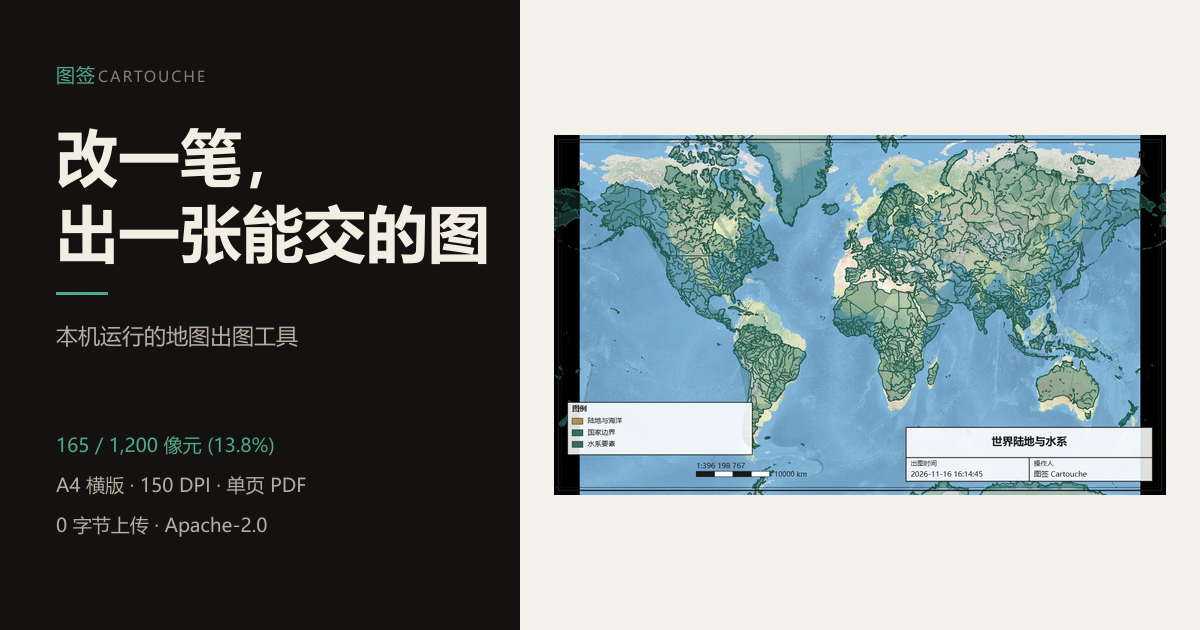
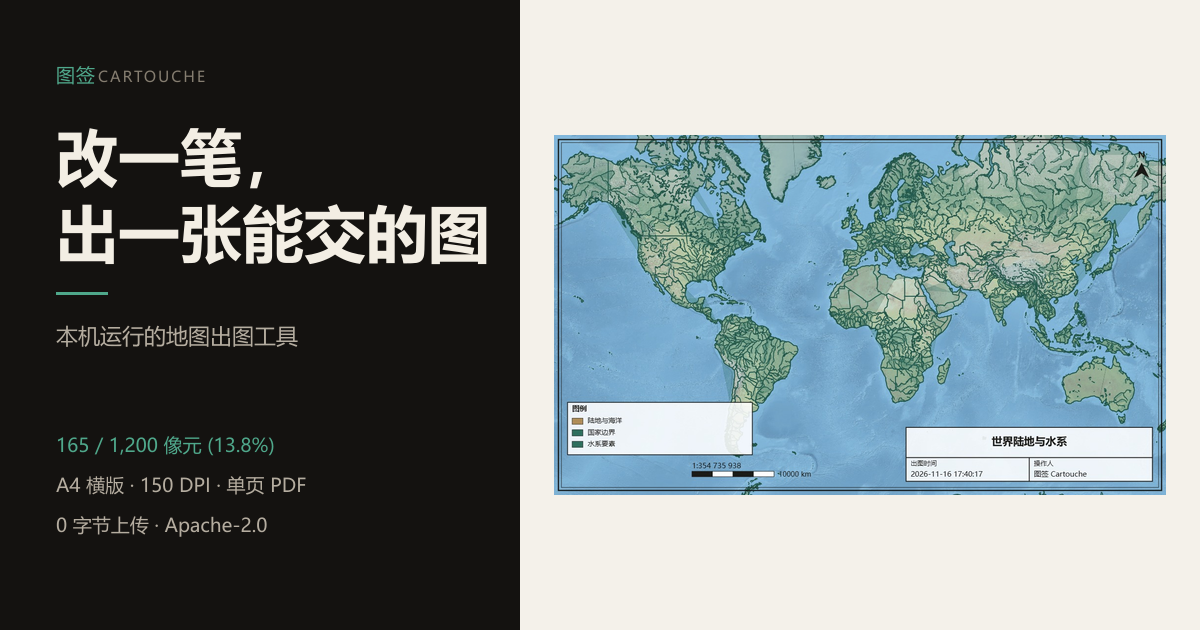
fix(engine): 栅格底图与矢量图层错位——栅格改出墨卡托视图（默认 EPSG:3857 + -te_srs 声明 bbox 是 4326），此前出 4326 线性经纬内容被二次形变

Changed region(s): [[0.4625, 0.2111, 0.9867, 0.7841]]

diff --git a/server/src/app.ts b/server/src/app.ts
@@ -908,9 +908,14 @@ function foldCasePath(p: string): string {
           const bbox = bboxParam
             ? (bboxParam.split(',').map(Number) as [number, number, number, number])
             : undefined;
-          // 默认出 EPSG:4326 的图：前端 MapLibre 的 image source 是**按经纬度角点**贴图的，
-          // 所以 PNG 必须是 4326 的，否则投影坐标系的栅格会与 bbox 对不上位（错开一块）。
-          const targetCrs = url.searchParams.get('targetCrs') ?? 'EPSG:4326';
+          // 默认出 **EPSG:3857（Web Mercator）**的图。
+          //
+          // 为什么不是 4326（2026-11-16 实测修正）：前端 MapLibre 用的是**墨卡托**，
+          // 它的 image source 把图片按经纬度四角贴成一个矩形 —— 那张图片的内容
+          // **也必须是墨卡托的视图**，否则内容会被二次形变（4326 的线性经纬内容
+          // 塞进墨卡托四角），栅格与矢量图层就对不上位（实测：明显错开一块）。
+          // bbox 仍按 4326 的经纬度传，引擎用 -te_srs 告诉 gdalwarp 这一点。
+          const targetCrs = url.searchParams.get('targetCrs') ?? 'EPSG:3857';
           // 拉伸档位只认 auto / none。非法值必须 400，不能默默忽略 ——
           // 默默忽略等于用户以为切了档、其实没切，是最难查的那种"静默失败"。
           const stretchParam = url.searchParams.get('stretch');

diff --git a/src/engine/export/raster-image.ts b/src/engine/export/raster-image.ts
@@ -331,11 +331,16 @@ function renderArgs(
 ): string[] {
   let args: string[];
   if (needReproject) {
-    // warp：-te 用目标 CRS 的 minx miny maxx maxy，-ts 给输出像素尺寸
+    // warp：-te 用**目标 CRS** 的 minx miny maxx maxy，-ts 给输出像素尺寸
     args = ['-t_srs', options.targetCrs!, '-ts', String(width), String(height)];
     if (options.bbox) {
       const [minX, minY, maxX, maxY] = options.bbox;
+      // ⚠ bbox 的约定是 **EPSG:4326 的经纬度**（见 BBox4326），而 -te 的坐标
+      //    属于**目标 CRS**（EPSG:3857 是米）。不告诉 GDAL 这批坐标是什么，
+      //    它会把经纬度当米用 → 取景完全错位。
+      //    -te_srs 就是这句说明：告诉 GDAL「-te 这四个数是 4326 的」。
       args.push('-te', String(minX), String(minY), String(maxX), String(maxY));
+      args.push('-te_srs', 'EPSG:4326');
     }
     if (options.resample) args.push('-r', options.resample);
     for (const b of options.bands ?? []) args.push('-b', String(b));
